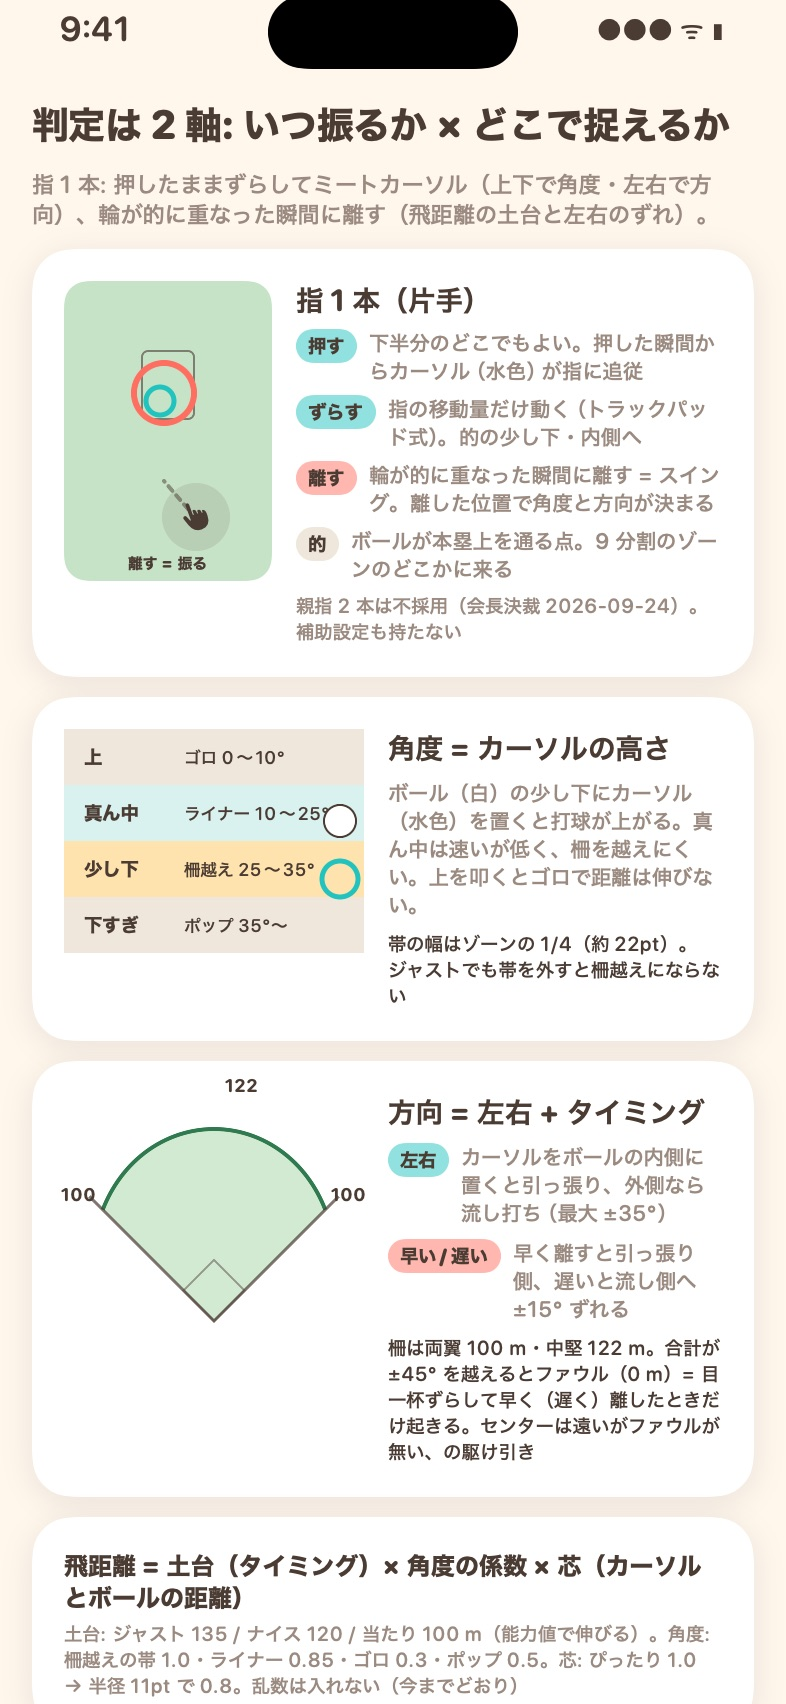
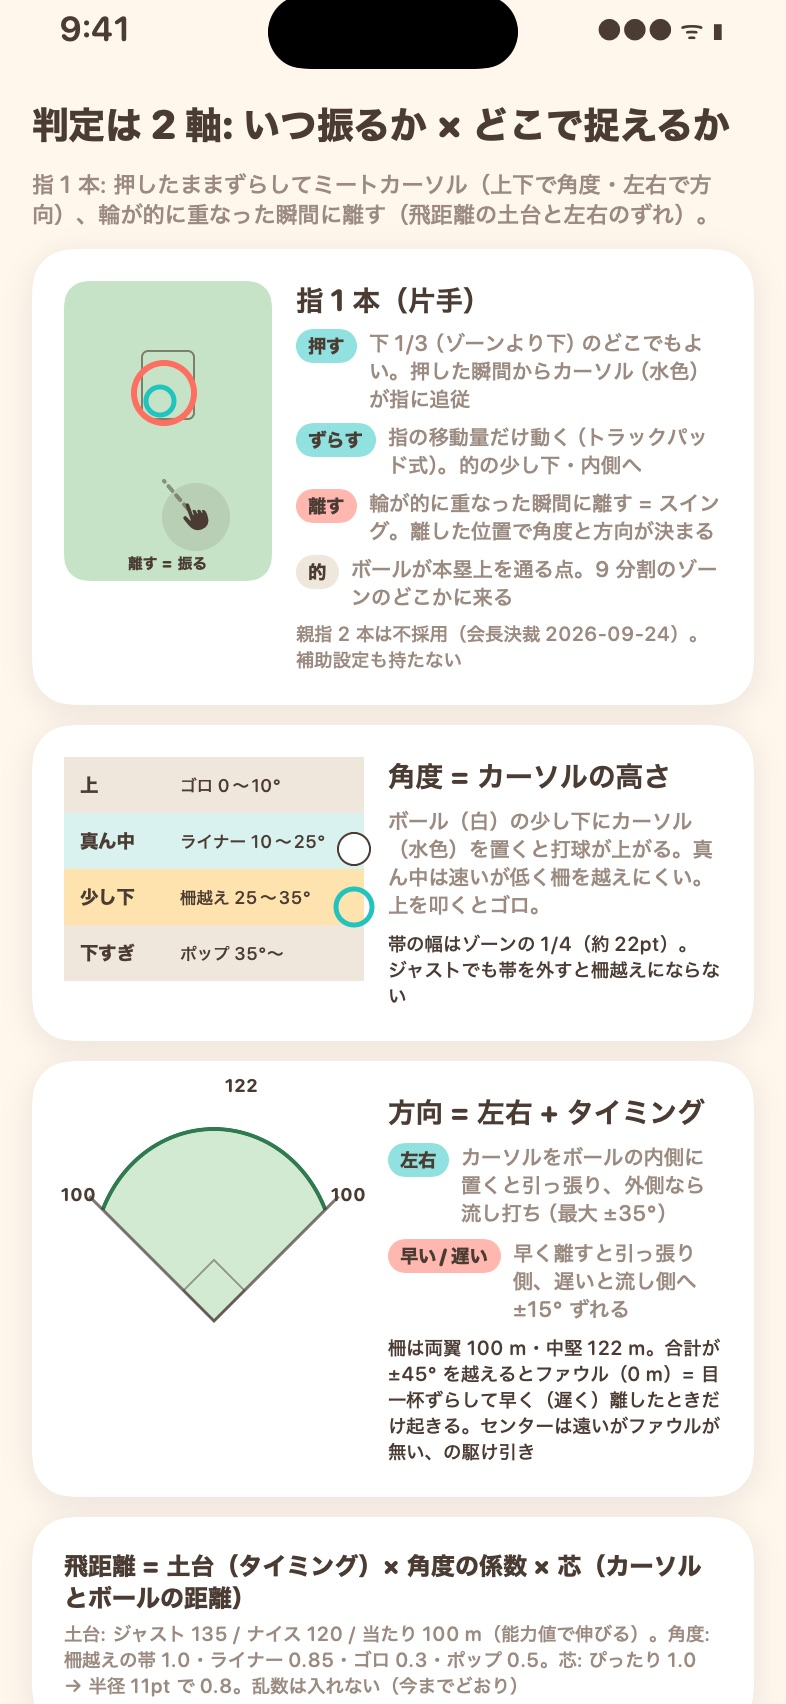
docs(design): verifier の指摘を反映（§3.4 の確定・捕手の位置・見逃しの扱い・押せる範囲・§7 の対応関係）（#1316）
- §3.4 を「広告 5 本・アンケート +1 で確定」に書き換え（推奨・要確認の記述を除去）
- 捕手を本塁の一塁側・奥へ動かし、ケージの棒を細くして、マスクの格子がストライクゾーンの 9 分割と重ならないようにする
- 「見逃し」は空振りと同じ扱いにして種別を増やさない
- 押せる範囲を「下 1/3（ゾーンより下）」に統一（README §3.1・§3.5・35）
- §7 の表を 3 回目スレッドの 8 論点 + 追加の捕手に対応させる。31/32/35/36 の上書きを明記

Changed region(s): [[0.0305, 0.1866, 0.9466, 0.591]]

diff --git a/docs/design/homerun/mock.swift b/docs/design/homerun/mock.swift
@@ -1639,7 +1639,7 @@ struct AtBat3D: View {
             }.padding(8).background(RoundedRectangle(cornerRadius: 12).fill(.black.opacity(0.35))).position(x: 330, y: 205)
             HStack { Image(systemName: "pause.fill").font(T.f(15)).foregroundStyle(T.coral).frame(width: 36, height: 36).background(Circle().fill(.white)); Spacer() }
                 .padding(.leading, 16).padding(.top, 104)
-            // 片手操作（会長決裁 2026-09-24: 親指 2 本は不採用）: 押している指の残像（下半分のどこでもよい）と、下端の案内 1 本だけ。受け口の円は置かない
+            // 片手操作（会長決裁 2026-09-24: 親指 2 本は不採用）: 押している指の残像（下 1/3 のどこでもよい）と、下端の案内 1 本だけ。受け口の円は置かない
             ZStack {
                 ForEach(0..<3, id: \.self) { i in
                     Circle().fill(.white.opacity(0.10 + Double(i) * 0.07)).frame(width: 52 - CGFloat(i) * 8, height: 52 - CGFloat(i) * 8)
@@ -1774,7 +1774,7 @@ struct Controls2Axis: View {
                         }.frame(width: 104, height: 150)
                         VStack(alignment: .leading, spacing: 5) {
                             Text("指 1 本（片手）").font(T.f(15)).foregroundStyle(T.ink)
-                            row("押す", "下半分のどこでもよい。押した瞬間からカーソル（水色）が指に追従", T.teal)
+                            row("押す", "下 1/3（ゾーンより下）のどこでもよい。押した瞬間からカーソル（水色）が指に追従", T.teal)
                             row("ずらす", "指の移動量だけ動く（トラックパッド式）。的の少し下・内側へ", T.teal)
                             row("離す", "輪が的に重なった瞬間に離す = スイング。離した位置で角度と方向が決まる", T.coral)
                             row("的", "ボールが本塁上を通る点。9 分割のゾーンのどこかに来る", .white)
@@ -1791,12 +1791,12 @@ struct Controls2Axis: View {
                                 band("少し下", "柵越え 25〜35°", T.yellow.opacity(0.45))
                                 band("下すぎ", "ポップ 35°〜", hexColor(0xEFE7DC))
                             }.frame(width: 150)
-                            Circle().fill(.white).frame(width: 16, height: 16).overlay(Circle().stroke(T.ink, lineWidth: 1)).offset(x: 63, y: 38)
-                            Circle().stroke(T.teal, lineWidth: 2.5).frame(width: 18, height: 18).offset(x: 63, y: 66)
+                            Circle().fill(.white).frame(width: 16, height: 16).overlay(Circle().stroke(T.ink, lineWidth: 1)).offset(x: 70, y: 38)
+                            Circle().stroke(T.teal, lineWidth: 2.5).frame(width: 18, height: 18).offset(x: 70, y: 66)
                         }
                         VStack(alignment: .leading, spacing: 6) {
                             Text("角度 = カーソルの高さ").font(T.f(15)).foregroundStyle(T.ink)
-                            Text("ボール（白）の少し下にカーソル（水色）を置くと打球が上がる。真ん中は速いが低く、柵を越えにくい。上を叩くとゴロで距離は伸びない。").font(T.f(11, .medium)).foregroundStyle(T.inkSub).fixedSize(horizontal: false, vertical: true)
+                            Text("ボール（白）の少し下にカーソル（水色）を置くと打球が上がる。真ん中は速いが低く柵を越えにくい。上を叩くとゴロ。").font(T.f(11, .medium)).foregroundStyle(T.inkSub).fixedSize(horizontal: false, vertical: true)
                             Text("帯の幅はゾーンの 1/4（約 22pt）。ジャストでも帯を外すと柵越えにならない").font(T.f(10, .medium)).foregroundStyle(T.ink).fixedSize(horizontal: false, vertical: true)
                         }
                     }
@@ -1829,7 +1829,7 @@ struct Controls2Axis: View {
     }
     func band(_ k: String, _ t: String, _ c: Color) -> some View {
         HStack { Text(k).font(T.f(10, .heavy)).foregroundStyle(T.ink).frame(width: 42, alignment: .leading); Text(t).font(T.f(9, .medium)).foregroundStyle(T.ink) }
-            .padding(.leading, 10).frame(width: 150, height: 28, alignment: .leading).background(c)
+            .padding(.leading, 8).frame(width: 150, height: 28, alignment: .leading).background(c)
     }
 }
 
@@ -1899,7 +1899,7 @@ MainActor.assumeIsolated {
     let dir = CommandLine.arguments.count > 1 ? CommandLine.arguments[1] : "."
     assetDir = dir
     if CommandLine.arguments.count > 2 && CommandLine.arguments[2] == "3d" {
-        // 3 回目（方向 3D + 判定 2 軸・31〜36）だけを描く。先に `mock3dbin <dir>` で 3d-*.png を作っておくこと
+        // 3〜4 回目（方向 3D + 判定 2 軸・31〜36）だけを描く。先に `mock3dbin <dir>` で 3d-*.png を作っておくこと
         write(Phone(dark: true) { AtBat3D() }, "31-at-bat-3D", dir: dir)
         write(Phone { Character3D() }, "32-character-3D", dir: dir)
         write(Phone(dark: true) { Outfield3D() }, "33-outfield-3D", dir: dir)

diff --git a/docs/design/homerun/mock3d.swift b/docs/design/homerun/mock3d.swift
@@ -292,7 +292,8 @@ func catcherNode() -> SCNNode {
     }
     head.addChildNode(sphere(0.12, P.skinDark, at: v(0, -0.16, 1.0), outline: 0.03))
     head.addChildNode(limb(v(-0.15, -0.5, 0.92), v(0.15, -0.5, 0.92), r: 0.035, P.mouth, outline: 0))
-    func bar(_ a: SCNVector3, _ b: SCNVector3) -> SCNNode { limb(a, b, r: 0.05, cage, outline: 0.02) }
+    // ケージの棒は細く（打席ではストライクゾーンの 9 分割と重なって見えないよう、格子に見せない太さにする）
+    func bar(_ a: SCNVector3, _ b: SCNVector3) -> SCNNode { limb(a, b, r: 0.035, cage, outline: 0.015) }
     let fz: CGFloat = 1.22, fw: CGFloat = 0.78, ft: CGFloat = 0.62, fb: CGFloat = -0.78
     head.addChildNode(bar(v(-fw, ft, fz), v(fw, ft, fz))); head.addChildNode(bar(v(-fw, fb, fz), v(fw, fb, fz)))
     head.addChildNode(bar(v(-fw, ft, fz), v(-fw, fb, fz))); head.addChildNode(bar(v(fw, ft, fz), v(fw, fb, fz)))
@@ -491,10 +492,11 @@ func atBatShot() -> Shot {
     let batter = ojisan(poses[0]); batter.scale = SCNVector3(charScale, charScale, charScale)
     batter.position = v(-1.0, 0, 0.15); batter.eulerAngles.y = 0.35
     scene.rootNode.addChildNode(batter); scene.rootNode.addChildNode(blobShadow(0.6, at: batter.position))
-    // 審判（捕手の後ろ。ほとんど隠れる）と捕手（4 回目で参考ブランチの見え方に寄せた）
-    let umpire = umpireNode(); umpire.scale = SCNVector3(charScale, charScale, charScale); umpire.position = v(0.15, 0, -2.75)
+    // 審判（捕手の後ろ。ほとんど隠れる）と捕手（4 回目で参考ブランチの見え方に寄せた）。
+    // 捕手は本塁の少し一塁側・奥（参考ブランチ `22` と同じく、リングとストライクゾーンの周りを空ける。マスクの格子がゾーンの 9 分割と重ならない位置）
+    let umpire = umpireNode(); umpire.scale = SCNVector3(charScale, charScale, charScale); umpire.position = v(0.75, 0, -3.2)
     scene.rootNode.addChildNode(umpire)
-    let catcher = catcherNode(); catcher.scale = SCNVector3(charScale, charScale, charScale); catcher.position = v(0.0, 0, -1.7)
+    let catcher = catcherNode(); catcher.scale = SCNVector3(charScale, charScale, charScale); catcher.position = v(0.6, 0, -2.2)
     scene.rootNode.addChildNode(catcher); scene.rootNode.addChildNode(blobShadow(0.7, at: catcher.position))
     // 投手（マウンドの前・本塁に向く = カメラに背中）
     let pitcher = pitcherNode(); pitcher.scale = SCNVector3(charScale, charScale, charScale)
